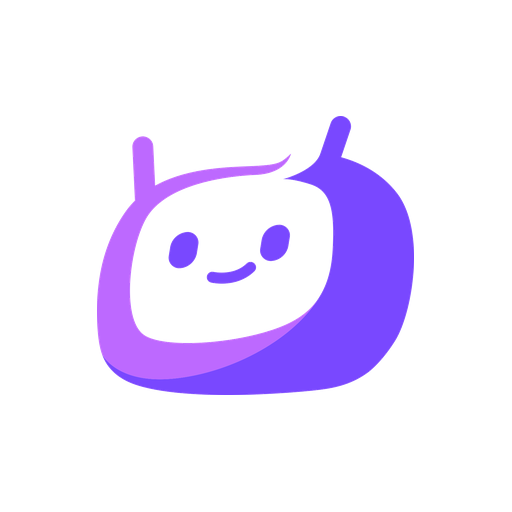
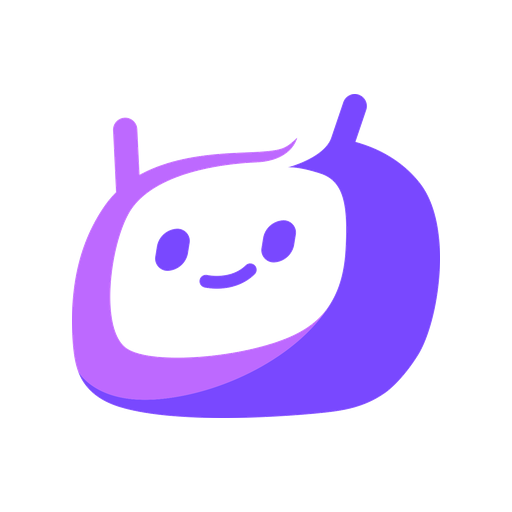
feat: 图标按 0.72 网格重排（内容占比更大），typecheck 守卫 Pods 文件清单
- make-icons.py 的留白比从 0.62 调到 0.72：这份 logo 宽高比 1.14，
  按宽度算 0.62 时高度只剩 55%，小尺寸下视觉重量偏轻；0.72 让
  内容占到 72% 宽 × 63% 高，左右各留 14% 安全边距，水母最宽处
  不会被 iOS 圆角遮罩切到。
- typecheck-kit.sh 新增守卫：把 ios/ 下的 Swift 文件与 Pods 工程
  记录对比，防止新增文件没同步进工程导致真机构建报
  "cannot find in scope"（踩过 MemohPalette.swift 的坑）。

diff --git a/tools/make-icons.py b/tools/make-icons.py
@@ -99,11 +99,15 @@ def check_brand_colors(image):
         )
 
 
-def place(logo, size, background, ratio=0.62):
+def place(logo, size, background, ratio=0.72):
     """把 logo 居中放进正方形画布，四周留白。
 
-    留白比例参考 Apple 的图标网格：内容约占 62%，四周留安全边距。
-    贴边会让图标在小尺寸下显得臃肿，而且 iOS 会裁掉圆角区域。
+    `ratio` 约束的是**较长的那一边**（这份 logo 宽大于高，1024×902）。
+
+    取 0.72 而不是 Apple 网格常说的 0.62–0.70：这份 logo 宽高比是 1.14，按宽度算
+    0.62 时高度只剩 55%，在小尺寸下视觉重量明显偏轻。0.72 让内容占到 72% 宽 ×
+    63% 高，与常见图标标记的观感一致，同时左右各留 14% 安全边距——
+    水母最宽处在竖直中段，不会被 iOS 的圆角遮罩切到。
     """
     canvas = Image.new('RGBA', (size, size), background)
     graphic = trim(logo.copy())
